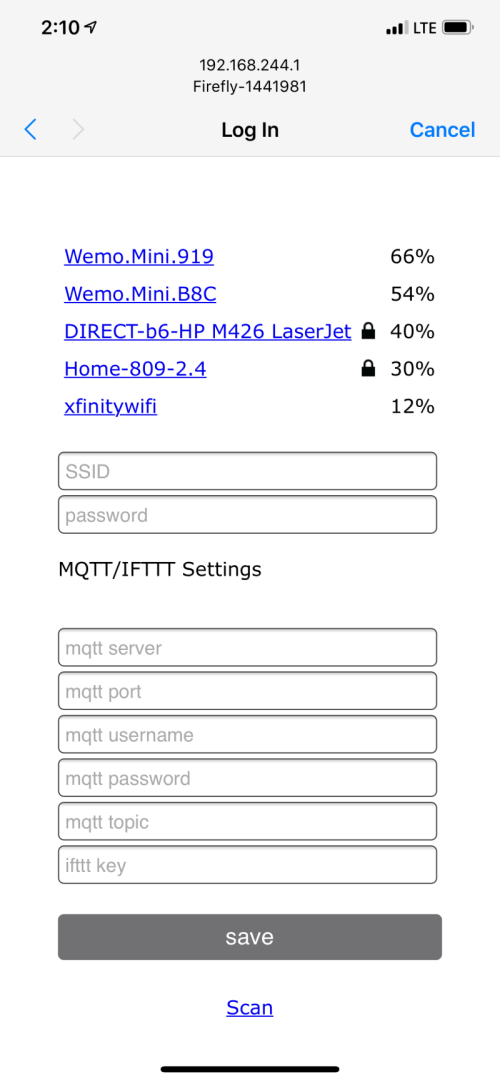
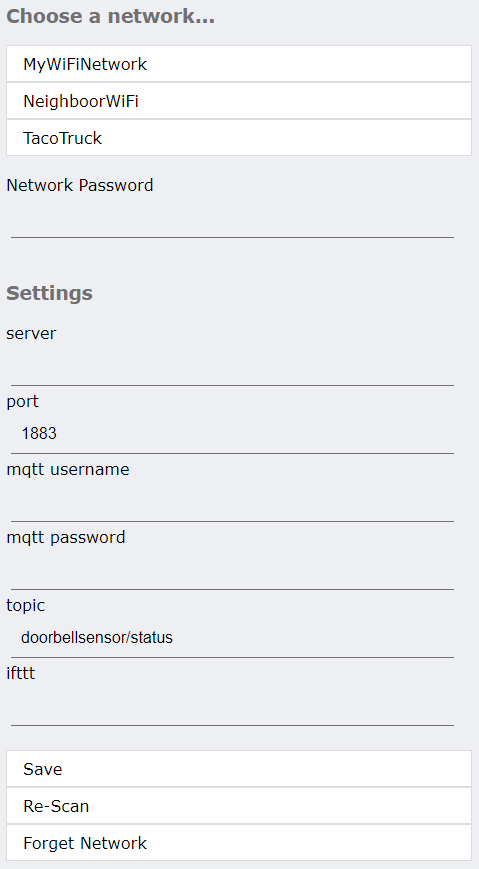
Ota update for v1.2 Release (#7)
* added core for http OTA update

* Fix compile errors

* UI changes

* UI Changes - add reset button

* UI Updates

* Update README.md

* UI Screenshot Updates

diff --git a/WiFi-Doorbell-DB100/src/WiFiManager.h b/WiFi-Doorbell-DB100/src/WiFiManager.h
@@ -22,18 +22,20 @@ extern "C" {
   #include "user_interface.h"
 }
 
[2 lines of base64/hex data omitted]
+const char HTTP_HEAD[] PROGMEM            = "<!DOCTYPE html><html lang=\"en\"><head><meta name=\"viewport\" content=\"width=device-width, initial-scale=1, user-scalable=no\"/><title>{v}</title>";
[1 lines of base64/hex data omitted]
 const char HTTP_SCRIPT[] PROGMEM          = "<script>function c(l){document.getElementById('s').value=l.innerText||l.textContent;document.getElementById('p').focus();}</script>";
-const char HTTP_HEAD_END[] PROGMEM        = "</head><body><div style='text-align:left;display:inline-block;min-width:260px;'>";
-const char HTTP_PORTAL_OPTIONS[] PROGMEM  = "<form action=\"/wifi\" method=\"get\"><button>Configure Device</button></form><br/><form action=\"/i\" method=\"get\"><button>Info</button></form><br/><form action=\"/r\" method=\"post\"><button>Reset</button></form>";
-const char HTTP_ITEM[] PROGMEM            = "<div><a href='#p' onclick='c(this)'>{v}</a>&nbsp;<span class='q {i}'>{r}%</span></div>";
-const char HTTP_FORM_START[] PROGMEM      = "<form method='get' action='wifisave'><input id='s' name='s' length=32 placeholder='SSID'><br/><input id='p' name='p' length=64 type='password' placeholder='password'><br/>";
-const char HTTP_FORM_PARAM[] PROGMEM      = "<br/><input id='{i}' name='{n}' maxlength={l} placeholder='{p}' value='{v}' {c}>";
-const char HTTP_FORM_END[] PROGMEM        = "<br/><button type='submit'>save</button></form>";
-const char HTTP_SCAN_LINK[] PROGMEM       = "<br/><div class=\"c\"><a href=\"/wifi\">Scan</a></div>";
-const char HTTP_SAVED[] PROGMEM           = "<div>Credentials Saved<br />Trying to connect ESP to network.<br />If it fails reconnect to AP to try again</div>";
-const char HTTP_END[] PROGMEM             = "</div></body></html>";
+const char HTTP_HEAD_END[] PROGMEM        = "</head><body>";
+const char HTTP_PORTAL_OPTIONS[] PROGMEM  = "<ul><li><a href=\"/wifi\">Configure Device<span class='q'>&#10095</span></a></li><li><a href=\"/update\">Update<span class='q'>&#10095</span></a></li><li><a href=\"/i\">About<span class='q'>&#10095</span></a></li></ul>";
+const char HTTP_ITEM[] PROGMEM            = "<li><a href='#p' onclick='c(this)'>{v}</a></li>";
+const char HTTP_FORM_START[] PROGMEM      = "<form method='get' action='wifisave' name='wifisave'><input type='hidden' id='s' name='s' length=32><br/><label for='p'>Password</label><input id='p' name='p' length=64 type='password'><br/><br/><h3>Settings</h3>";
+const char HTTP_FORM_PARAM[] PROGMEM      = "<label for='{i}'>{p}</label><input id='{i}' name='{n}' maxlength={l} value='{v}' {c}>";
+const char HTTP_FORM_END[] PROGMEM        = "<ul><li><a href='#' onclick='document.wifisave.submit()'>Save</a></li><li><a href=\"/wifi\">Re-Scan</a></li><li><a href=\"/r\">Forget Network</a></li></ul>";
+const char HTTP_SAVED[] PROGMEM           = "<div>Settings Saved<br />Trying to connect to network.<br />If it fails reconnect to AP to try again</div>";
+const char HTTP_UPDATE[] PROGMEM          = "<form method='POST' action='u' enctype='multipart/form-data' onchange=\"(function(el){document.getElementById('uploadbin').style.display = el.value=='' ? 'none' : 'initial';})(this)\"><input type='file' name='update' accept='.bin,application/octet-stream'><button id='uploadbin' type='submit' class='h D'>Update</button></form>";
+const char HTTP_UPDATE_FAIL[] PROGMEM     = "<div class='msg D'><strong>Update Failed!</strong><Br/>Reboot device and try again</div>";
+const char HTTP_UPDATE_OK[] PROGMEM       = "<div class='msg P'><strong>Update OK!</strong> Device Rebooting now...</div>";
+const char HTTP_END[] PROGMEM             = "</body></html>";
 
 #ifndef WIFI_MANAGER_MAX_PARAMS
 #define WIFI_MANAGER_MAX_PARAMS 10
@@ -171,6 +173,11 @@ class WiFiManager
     void          handle204();
     boolean       captivePortal();
     boolean       configPortalHasTimeout();
+
+    //OTA Update
+    void          handleUpdate();
+	  void          handleUpdating();
+    void          handleUpdateDone();
 
     // DNS server
     const byte    DNS_PORT = 53;

diff --git a/WiFi-Doorbell-DB100/src/WiFiManager.cpp b/WiFi-Doorbell-DB100/src/WiFiManager.cpp
@@ -12,7 +12,7 @@
 
 #include "WiFiManager.h"
 
-const char sw_ver[10] = "1.1"; //software version
+const char sw_ver[10] = "1.2"; //software version
 
 WiFiManagerParameter::WiFiManagerParameter(const char *custom) {
   _id = NULL;
@@ -153,6 +153,8 @@ void WiFiManager::setupConfigPortal() {
   server->on(String(F("/r")), std::bind(&WiFiManager::handleReset, this));
   //server->on("/generate_204", std::bind(&WiFiManager::handle204, this));  //Android/Chrome OS captive portal check.
   server->on(String(F("/fwlink")), std::bind(&WiFiManager::handleRoot, this));  //Microsoft captive portal. Maybe not needed. Might be handled by notFound handler.
+  server->on(String(F("/update")), std::bind(&WiFiManager::handleUpdate, this));
+  server->on(String(F("/u")), HTTP_POST, std::bind(&WiFiManager::handleUpdateDone, this), std::bind(&WiFiManager::handleUpdating, this));
   server->onNotFound (std::bind(&WiFiManager::handleNotFound, this));
   server->begin(); // Web server start
   DEBUG_WM(F("HTTP server started"));
@@ -442,15 +444,15 @@ void WiFiManager::handleRoot() {
   }
 
   String page = FPSTR(HTTP_HEAD);
-  page.replace("{v}", "Options");
+  page.replace("{v}", "Configure");
   page += FPSTR(HTTP_SCRIPT);
   page += FPSTR(HTTP_STYLE);
   page += _customHeadElement;
   page += FPSTR(HTTP_HEAD_END);
-  page += String(F("<h3>"));
-  page += _apName;
-  page += String(F("</h3>"));
-  //page += String(F("<h3>WiFiManager</h3>"));
+  //page += String(F("<h3>"));
+  //page += _apName;
+  //page += String(F("</h3>"));
+  page += F("<h3>WiFi Doorbell Sensor</h3>");
   page += FPSTR(HTTP_PORTAL_OPTIONS);
   page += FPSTR(HTTP_END);
 
@@ -463,10 +465,11 @@ void WiFiManager::handleRoot() {
 void WiFiManager::handleWifi(boolean scan) {
 
   String page = FPSTR(HTTP_HEAD);
-  page.replace("{v}", "Config Device");
+  page.replace("{v}", "Settings");
   page += FPSTR(HTTP_SCRIPT);
   page += FPSTR(HTTP_STYLE);
   page += _customHeadElement;
+  page += F("<h3>Choose a Network...</h3>");
   page += FPSTR(HTTP_HEAD_END);
 
   if (scan) {
@@ -533,7 +536,9 @@ void WiFiManager::handleWifi(boolean scan) {
             item.replace("{i}", "");
           }
           //DEBUG_WM(item);
+          page += "<ul>";
           page += item;
+          page += "</ul>";
           delay(0);
         } else {
           DEBUG_WM(F("Skipping due to quality"));
@@ -545,7 +550,6 @@ void WiFiManager::handleWifi(boolean scan) {
   }
 
   page += FPSTR(HTTP_FORM_START);
-  page += F("<b>MQTT/IFTTT Settings</b>");
   char parLength[5];
   // add the extra parameters to the form
   for (int i = 0; i < _paramsCount; i++) {
@@ -605,7 +609,6 @@ void WiFiManager::handleWifi(boolean scan) {
   }*/
 
   page += FPSTR(HTTP_FORM_END);
-  page += FPSTR(HTTP_SCAN_LINK);
 
   page += FPSTR(HTTP_END);
 
@@ -680,32 +683,26 @@ void WiFiManager::handleInfo() {
   DEBUG_WM(F("Info"));
 
   String page = FPSTR(HTTP_HEAD);
-  page.replace("{v}", "Info");
+  page.replace("{v}", "About");
   page += FPSTR(HTTP_SCRIPT);
   page += FPSTR(HTTP_STYLE);
   page += _customHeadElement;
   page += FPSTR(HTTP_HEAD_END);
   page += F("<dl>");
+  page += F("<dt>AP IP</dt><dd>");
+  page += WiFi.softAPIP().toString();
+  page += F("</dd>");
+  page += F("<dt>AP MAC</dt><dd>");
+  page += WiFi.softAPmacAddress();
+  page += F("</dd>");
+  page += F("<dt>Station MAC</dt><dd>");
+  page += WiFi.macAddress();
+  page += F("</dd>");
   page += F("<dt>Chip ID</dt><dd>");
   page += ESP.getChipId();
   page += F("</dd>");
   page += F("<dt>Flash Chip ID</dt><dd>");
   page += ESP.getFlashChipId();
-  page += F("</dd>");
-  page += F("<dt>IDE Flash Size</dt><dd>");
-  page += ESP.getFlashChipSize();
-  page += F(" bytes</dd>");
-  page += F("<dt>Real Flash Size</dt><dd>");
-  page += ESP.getFlashChipRealSize();
-  page += F(" bytes</dd>");
-  page += F("<dt>Soft AP IP</dt><dd>");
-  page += WiFi.softAPIP().toString();
-  page += F("</dd>");
-  page += F("<dt>Soft AP MAC</dt><dd>");
-  page += WiFi.softAPmacAddress();
-  page += F("</dd>");
-  page += F("<dt>Station MAC</dt><dd>");
-  page += WiFi.macAddress();
   page += F("</dd>");
   page += F("<dt>Software Version</dt><dd>");
   page += sw_ver;
@@ -735,10 +732,129 @@ void WiFiManager::handleReset() {
   server->sendHeader("Content-Length", String(page.length()));
   server->send(200, "text/html", page);
 
+  //Erose WiFi Credentials
+  WiFi.disconnect(true);
+
   DEBUG_WM(F("Sent reset page"));
   delay(3000);
   ESP.reset();
   delay(2000);
+}
+
+// Called when /update is requested
+void WiFiManager::handleUpdate() {
+	DEBUG_WM(F("<- Handle update"));
+	if (captivePortal()) return; // If captive portal redirect instead of displaying the page
+
+	//str.replace(FPSTR(T_v), configPortalActive ? _apName : WiFi.localIP().toString()); // use ip if ap is not active for heading
+	//page += str;
+  String page = FPSTR(HTTP_HEAD);
+  page.replace("{v}", "Update");
+
+  page += FPSTR(HTTP_STYLE);
+	page += FPSTR(HTTP_UPDATE);
+	page += FPSTR(HTTP_END);
+
+  server->sendHeader("Content-Length", String(page.length()));
+  server->send(200, "text/html", page);
+
+}
+
+// upload via /u POST
+void WiFiManager::handleUpdating(){
+  // @todo
+  // cannot upload files in captive portal, file select is not allowed, show message with link or hide
+  // cannot upload if softreset after upload, maybe check for hard reset at least for dev, ERROR[11]: Invalid bootstrapping state, reset ESP8266 before updating
+  // add upload status to webpage somehow
+  // abort upload if error detected ?
+  // [x] supress cp timeout on upload, so it doesnt keep uploading?
+  // add progress handler for debugging
+  // combine route handlers into one callback and use argument or post checking instead of mutiple functions maybe, if POST process else server upload page?
+  // [x] add upload checking, do we need too check file?
+  // convert output to debugger if not moving to example
+	if (captivePortal()) return; // If captive portal redirect instead of displaying the page
+  bool error = false;
+  unsigned long _configPortalTimeoutSAV = _configPortalTimeout; // store cp timeout
+  _configPortalTimeout = 0; // disable timeout
+
+  // handler for the file upload, get's the sketch bytes, and writes
+	// them through the Update object
+	HTTPUpload& upload = server->upload();
+
+  // UPLOAD START
+	if (upload.status == UPLOAD_FILE_START) {
+	  if(_debug) Serial.setDebugOutput(true);
+
+    #ifdef ESP8266
+    		WiFiUDP::stopAll();
+    		uint32_t maxSketchSpace = (ESP.getFreeSketchSpace() - 0x1000) & 0xFFFFF000;
+    #elif defined(ESP32)
+          // Think we do not need to stop WiFIUDP because we haven't started a listener
+    		  uint32_t maxSketchSpace = (ESP.getFlashChipSize() - 0x1000) & 0xFFFFF000;
+    #endif
+
+    Serial.printf("Update: %s\r\n", upload.filename.c_str());
+
+  	if (!Update.begin(maxSketchSpace)) { // start with max available size
+  			Update.printError(Serial); // size error
+        error = true;
+  	}
+	}
+  // UPLOAD WRITE
+  else if (upload.status == UPLOAD_FILE_WRITE) {
+		Serial.print(".");
+		if (Update.write(upload.buf, upload.currentSize) != upload.currentSize) {
+			Update.printError(Serial); // write failure
+      error = true;
+		}
+	}
+  // UPLOAD FILE END
+  else if (upload.status == UPLOAD_FILE_END) {
+		if (Update.end(true)) { // true to set the size to the current progress
+			Serial.printf("Updated: %u bytes\r\nRebooting...\r\n", upload.totalSize);
+		}
+    else {
+			Update.printError(Serial);
+      error = true;
+		}
+	}
+  // UPLOAD ABORT
+  else if (upload.status == UPLOAD_FILE_ABORTED) {
+		Update.end();
+		DEBUG_WM(F("[OTA] Update was aborted"));
+    error = true;
+  }
+  if(error) _configPortalTimeout = _configPortalTimeoutSAV;
+	delay(0);
+}
+
+// upload and ota done, show status
+void WiFiManager::handleUpdateDone() {
+	DEBUG_WM(F("<- Handle update done"));
+	if (captivePortal()) return; // If captive portal redirect instead of displaying the page
+
+	//str.replace(FPSTR(T_v), configPortalActive ? _apName : WiFi.localIP().toString()); // use ip if ap is not active for heading
+	//page += str;
+  String page = FPSTR(HTTP_HEAD);
+  page.replace("{v}", "Update Done");
+
+	if (Update.hasError()) {
+		page += FPSTR(HTTP_UPDATE_FAIL);
+		DEBUG_WM(F("[OTA] update failed"));
+	}
+	else {
+		page += FPSTR(HTTP_UPDATE_OK);
+		DEBUG_WM(F("[OTA] update ok"));
+	}
+	page += FPSTR(HTTP_END);
+
+  server->sendHeader("Content-Length", String(page.length()));
+  server->send(200, "text/html", page);
+
+	delay(1000); // send page
+	if (!Update.hasError()) {
+		ESP.restart();
+	}
 }
 
 void WiFiManager::handleNotFound() {

diff --git a/README.md b/README.md
@@ -1,41 +1,22 @@
 # WiFi Doorbell Sensor
-This is the source code for the WiFi Doorbell from Firefly Electronix. Visit our website for more information. https://www.fireflyelectronix.com/product/wifidoorbell
+This is the source code for the WiFi Doorbell Sensor from Firefly Electronix. Visit our website for more information. https://www.fireflyelectronix.com/product/wifidoorbell
 
 #### Software Roadmap
-- [ ] Support for OTA (Over-the-air) Updates
-- [ ] Support for TLS/SSL Secure Client
+- [x] Support for OTA (Over-the-air) Updates - v1.2 Release
+- [ ] Support for TLS/SSL Secure Client (Http port 443 and MQTT port 8883)
 
-### Updating/Programming the WiFi Doorbell Sensor
+### Updating the firmware - OTA (Available in release v1.2 or newer)
 
-1. Tools that you will need.
-    1. Node MCU Py Flasher - Download it here https://github.com/marcelstoer/nodemcu-pyflasher/releases
-    1. Download the latest .bin file from our releases. https://github.com/fireflyelectronix/wifidoorbell/releases
-    1. FTDI programming tool - One that can switch to 3.3v logic and uses the FT232RL chip. https://www.amazon.com/gp/product/B07G2D34ZW
+1. Download the latest .bin file from our releases https://github.com/fireflyelectronix/wifidoorbell/releases
+1. Press and hold SW1 within 10 seconds after installing the battery
+1. Connect to the WiFi Network - Firefly-xxxxxx
+1. Open your browser and navigate to 192.168.244.1 (Updating does not work throgh Apple's Captive Portal that pops up automatically)
+1. Click on Update
+1. Click on Choose File and Select the .bin file that was downloaded in step 1
+1. Click on Update - It will automatically restart after update is completed. Settings will be kept after the update and not erased.
 
-1. Conenct the FTDI to the J2 Header on the WiFi Doorbell Sensor. 
 
-    | FTDI Pin | WiFi Doorbell Pin |
-    | -------- | ----------------- |
-    | GND      | GND               |
-    | RX       | TX                |
-    | TX       | RX                |
-
-1. Program the WiFi Doorbell Sensor
-    1. Press and hold SW1 prior to installing the battery. This puts the ESP8266 module into UART Download mode. 
-    1. Open the Node MCU Py Flasher tool. Change Erase Flash to - yes. All other settings keep on default
-    1. Select the COM port that your FTDI programmer is plugged into. 
-    1. Select the .bin file that you downloaded from our relases. 
-    1. Click on Flash NodeMCU
-    
-The 4 pin header J2 is used for progamming. 
-    1. Pin 1 - VCC
-    1. Pin 2 - GND
-    1. Pin 3 - TX
-    1. Pin 4 - RX
-    
-![](https://github.com/fireflyelectronix/wifidoorbell/blob/master/images/j2-pins.JPG)
-
-### Customizing and building your own firmware
+### Customizing and building your own firmware with Arduino
 
 1. Download and install Arduino IDE (tested with version 1.8.8)
 
@@ -46,3 +27,32 @@ The 4 pin header J2 is used for progamming.
 1.  Install Libraries Tools -> Manage Libraries -> Search -> Select Version -> click Install
     1. Install ArduinoJson Library (tested with version 5.13.4)
     1. Install PubSubClient Library (tested with version 2.7.0)
+
+### Programming the WiFi Doorbell Sensor - USB to Serial
+
+1. Tools that you will need.
+    1. Node MCU Py Flasher - Download it here https://github.com/marcelstoer/nodemcu-pyflasher/releases
+    1. Download the latest .bin file from our releases. https://github.com/fireflyelectronix/wifidoorbell/releases
+    1. FTDI programming tool - One that can switch to 3.3v logic and uses the FT232RL chip. https://www.amazon.com/gp/product/B07G2D34ZW
+
+1. Conenct the FTDI to the J2 Header on the WiFi Doorbell Sensor.
+
+    | FTDI Pin | WiFi Doorbell Pin |
+    | -------- | ----------------- |
+    | GND      | GND               |
+    | RX       | TX                |
+    | TX       | RX                |
+
+1. Program the WiFi Doorbell Sensor
+    1. Press and hold SW1 prior to installing the battery. This puts the ESP8266 module into UART Download mode.
+    1. Open the Node MCU Py Flasher tool. Change Erase Flash to - yes. All other settings keep on default
+    1. Select the COM port that your FTDI programmer is plugged into.
+    1. Select the .bin file that you downloaded from our relases.
+    1. Click on Flash NodeMCU
+
+The 4 pin header J2 is used for progamming.
+
+    1. Pin 1 - VCC
+    1. Pin 2 - GND
+    1. Pin 3 - TX
+    1. Pin 4 - RX
